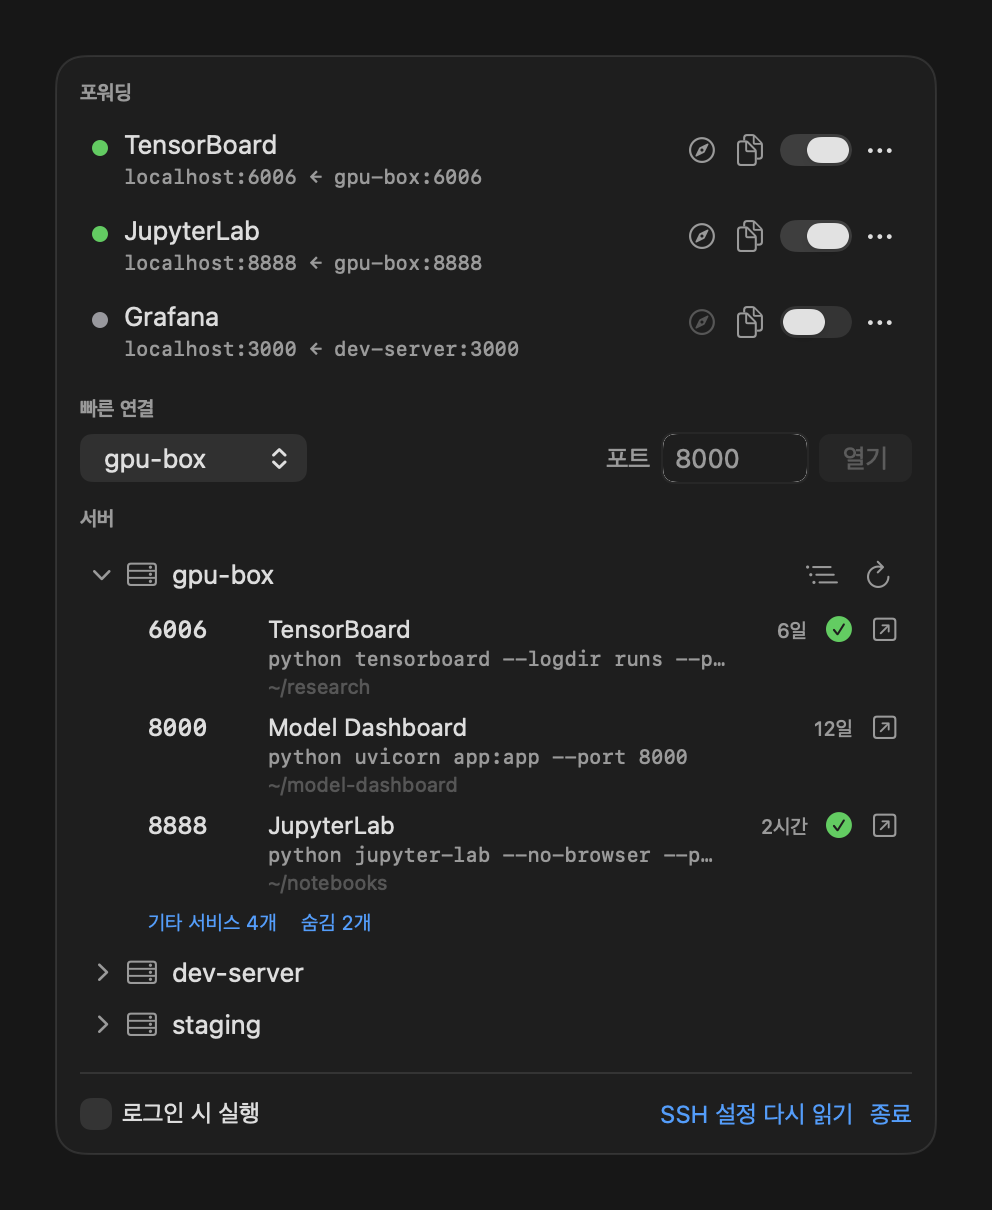
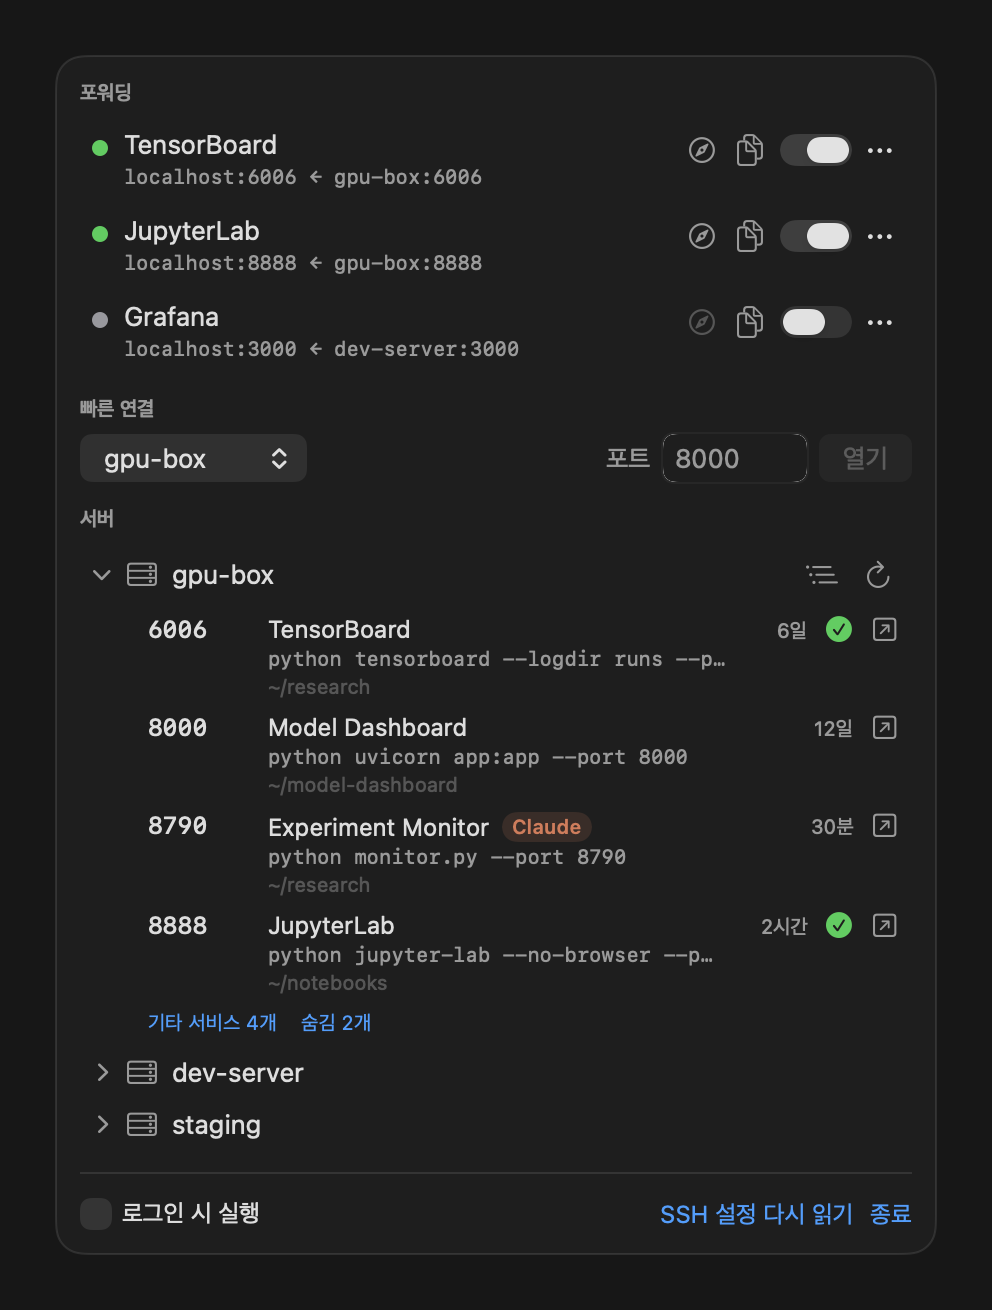
Claude Code가 띄운 프로세스 표시
- 원격 스크립트가 프로세스마다 /proc/<pid>/environ의 CLAUDECODE=1 유무를 함께 출력
- 목록 보기와 트리 보기에서 해당 프로세스에 Claude 배지 표시
- 데모 데이터와 README 스크린샷에 Claude가 띄운 서버 추가

diff --git a/Sources/EasyPort/Snapshot.swift b/Sources/EasyPort/Snapshot.swift
@@ -112,9 +112,12 @@ private final class KeyWindow: NSWindow {
 private enum DemoData {
     private static func proc(
         _ pid: Int, _ ppid: Int, _ name: String, _ command: String = "",
-        dir: String? = nil, elapsed: Int = 86400 * 3
+        dir: String? = nil, elapsed: Int = 86400 * 3, claude: Bool = false
     ) -> ProcessDetails {
-        ProcessDetails(pid: pid, ppid: ppid, name: name, command: command, directory: dir, elapsedSeconds: elapsed)
+        ProcessDetails(
+            pid: pid, ppid: ppid, name: name, command: command, directory: dir,
+            elapsedSeconds: elapsed, launchedByClaude: claude
+        )
     }
 
     private static func port(
@@ -139,6 +142,9 @@ private enum DemoData {
             proc(4101, 4100, "sshd", "sshd: me@pts/1", elapsed: 3600 * 2),
             proc(4102, 4101, "bash", "-bash", elapsed: 3600 * 2),
             proc(4200, 4102, "jupyter-lab", "python jupyter-lab --no-browser --port 8888", dir: "~/notebooks", elapsed: 3600 * 2),
+            proc(4300, 4102, "claude", "claude", dir: "~/research", elapsed: 3600),
+            proc(4310, 4300, "bash", "/bin/bash -c uv run python monitor.py --port 8790", dir: "~/research", elapsed: 1800, claude: true),
+            proc(4311, 4310, "python", "python monitor.py --port 8790", dir: "~/research", elapsed: 1800, claude: true),
             proc(5000, 1, "python", "python -m vllm.entrypoints.openai.api_server --port 8080", dir: "~/serving", elapsed: 86400 * 9),
             proc(5001, 5000, "VLLM::EngineCor", "VLLM::EngineCore", dir: "~/serving", elapsed: 86400 * 9),
             proc(700, 1, "code-1a2b3c4d5e", "~/.vscode-server/code-1a2b3c4d5e agent host", elapsed: 86400 * 20),
@@ -149,6 +155,7 @@ private enum DemoData {
             port(8000, byPid[1201], http: HTTPProbe(status: 200, isHTML: true, title: "Model Dashboard"), bind: "0.0.0.0"),
             port(8001, byPid[3100], http: HTTPProbe(status: 404, isHTML: false, title: nil)),
             port(8080, byPid[5000], http: HTTPProbe(status: 404, isHTML: false, title: nil)),
+            port(8790, byPid[4311], http: HTTPProbe(status: 200, isHTML: true, title: "Experiment Monitor")),
             port(8888, byPid[4200], http: HTTPProbe(status: 302, isHTML: false, title: "JupyterLab")),
             port(11434, nil, http: HTTPProbe(status: 200, isHTML: false, title: nil)),
             port(35111, byPid[700], http: HTTPProbe(status: 403, isHTML: false, title: nil)),

diff --git a/Sources/EasyPort/PanelView.swift b/Sources/EasyPort/PanelView.swift
@@ -264,6 +264,21 @@ private struct ErrorFooter: ViewModifier {
     }
 }
 
+/// Claude Code가 띄운 프로세스 표시.
+private struct ClaudeBadge: View {
+    var body: some View {
+        Text("Claude")
+            .font(.caption2.weight(.semibold))
+            .foregroundStyle(Color(red: 0.85, green: 0.47, blue: 0.34))
+            .padding(.horizontal, 5)
+            .padding(.vertical, 1)
+            .background(Capsule().fill(Color(red: 0.85, green: 0.47, blue: 0.34).opacity(0.15)))
+            .fixedSize()
+            .help("Claude Code가 띄운 프로세스 (환경 변수 CLAUDECODE=1)")
+            .accessibilityLabel("Claude Code가 띄운 프로세스")
+    }
+}
+
 /// 아이콘만 있는 버튼. 클릭 영역을 22pt로 넓히고 접근성 라벨과 툴팁을 붙인다.
 private struct IconButton: View {
     let symbol: String
@@ -450,6 +465,9 @@ private struct PortRow: View {
                         .lineLimit(1)
                         .truncationMode(.tail)
                         .layoutPriority(1)
+                    if port.details?.launchedByClaude == true {
+                        ClaudeBadge()
+                    }
                     if pinned {
                         Image(systemName: "pin.fill")
                             .font(.caption2)
@@ -555,6 +573,9 @@ private struct ProcessTreeRow: View {
                 .font(.system(.caption2, design: .monospaced))
                 .foregroundStyle(.tertiary)
                 .fixedSize()
+            if !row.ports.isEmpty && process.launchedByClaude {
+                ClaudeBadge()
+            }
             ForEach(row.ports) { port in
                 portChip(port)
             }

diff --git a/Sources/EasyPort/PortScanner.swift b/Sources/EasyPort/PortScanner.swift
@@ -47,6 +47,8 @@ struct ProcessDetails: Hashable {
     let command: String
     let directory: String?
     let elapsedSeconds: Int?
+    /// Claude Code가 실행한 프로세스(환경 변수 CLAUDECODE=1).
+    var launchedByClaude = false
 
     /// Claude Code는 프로세스 이름이 버전 번호(예: 2.1.301)로 나오므로 명령줄로 판별한다.
     var displayName: String {
@@ -217,9 +219,9 @@ enum PortScanner {
         let home = lines.removeFirst()
         var result: [Int: ProcessDetails] = [:]
         for line in lines {
-            let f = line.split(separator: "\t", maxSplits: 5, omittingEmptySubsequences: false).map(String.init)
-            guard f.count == 6, let pid = Int(f[0]) else { continue }
-            var dir = f[4]
+            let f = line.split(separator: "\t", maxSplits: 6, omittingEmptySubsequences: false).map(String.init)
+            guard f.count == 7, let pid = Int(f[0]) else { continue }
+            var dir = f[5]
             if !home.isEmpty, dir == home || dir.hasPrefix(home + "/") {
                 dir = "~" + dir.dropFirst(home.count)
             }
@@ -227,9 +229,10 @@ enum PortScanner {
                 pid: pid,
                 ppid: Int(f[1]) ?? 0,
                 name: f[3],
-                command: f[5].trimmingCharacters(in: .whitespaces),
+                command: f[6].trimmingCharacters(in: .whitespaces),
                 directory: dir.isEmpty ? nil : dir,
-                elapsedSeconds: Int(f[2])
+                elapsedSeconds: Int(f[2]),
+                launchedByClaude: f[4] == "1"
             )
         }
         return result

diff --git a/Sources/EasyPort/RemoteScript.swift b/Sources/EasyPort/RemoteScript.swift
@@ -8,7 +8,8 @@ enum RemoteScript {
     /// 출력 구성:
     /// 1. ss 출력
     /// 2. procMarker, 홈 디렉터리 한 줄, 포트를 연 프로세스와 그 조상마다
-    ///    "pid<TAB>ppid<TAB>실행 초<TAB>comm<TAB>작업 디렉터리<TAB>명령줄"
+    ///    "pid<TAB>ppid<TAB>실행 초<TAB>comm<TAB>Claude 여부(1/0)<TAB>작업 디렉터리<TAB>명령줄".
+    ///    Claude 여부는 환경 변수 CLAUDECODE=1 유무다. Claude Code의 Bash 도구가 실행한 프로세스와 그 자식에 있다.
     /// 3. httpMarker, 포트마다 "port<TAB>HTTP 상태<TAB>html 여부(1/0)<TAB>페이지 제목".
     ///    curl이 없으면 이 구역은 비어 있다. 포트마다 병렬로 1초 제한을 두고 요청한다.
     static let scan = #"""
@@ -23,8 +24,10 @@ enum RemoteScript {
         case "$seen" in *" $c "*) break ;; esac
         seen="$seen$c "
         pp=$(ps -o ppid= -p "$c" 2>/dev/null | tr -d ' ')
-        printf '%s\t%s\t%s\t%s\t%s\t%s\n' "$c" "${pp:-0}" \
-          "$(ps -o etimes= -p "$c" 2>/dev/null | tr -d ' ')" "$(cat "/proc/$c/comm" 2>/dev/null)" \
+        cl=0
+        tr '\0' '\n' < "/proc/$c/environ" 2>/dev/null | grep -qx 'CLAUDECODE=1' && cl=1
+        printf '%s\t%s\t%s\t%s\t%s\t%s\t%s\n' "$c" "${pp:-0}" \
+          "$(ps -o etimes= -p "$c" 2>/dev/null | tr -d ' ')" "$(cat "/proc/$c/comm" 2>/dev/null)" "$cl" \
           "$(readlink "/proc/$c/cwd" 2>/dev/null)" "$(tr '\0' ' ' < "/proc/$c/cmdline" 2>/dev/null)"
         c=$pp
       done

diff --git a/README.md b/README.md
@@ -53,6 +53,7 @@ EasyPort는 이 두 가지를 위해 만들었어요. 서버를 펼치면 열린
 - **서버 목록**: `~/.ssh/config`의 `Host` 별칭을 읽어요. `Include`도 따라가요.
 - **열린 포트 조회**: 서버를 펼치면 대기 중인 TCP 포트와 프로세스 이름, 명령줄, 작업 디렉터리, 실행 시간을 보여 줘요.
 - **웹 페이지 판별**: 서버 안에서 각 포트에 HTTP 요청을 보내 HTML로 응답하는지 확인하고, 페이지 `<title>`을 이름으로 써요. `python` 대신 `TensorBoard`로 표시돼요.
+- **Claude Code 표시**: Claude Code가 띄운 프로세스에 `Claude` 표시를 붙여요. 프로세스의 환경 변수 `CLAUDECODE=1`로 판별해요. Claude에게 어떤 포트를 열었는지 다시 묻지 않아도 돼요.
 - **자동 분류**: 포트를 세 묶음으로 나눠요.
 
   | 분류 | 조건 | 기본 표시 |
